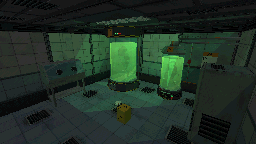
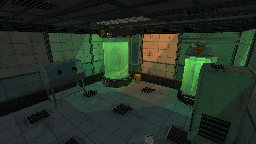
Quarantine: warp portal, ritual circle, creatures on CAM 23

diff --git a/areas.js b/areas.js
@@ -448,7 +448,7 @@
   /* Pre-rendered room images (made from the Kraken Code PSX Sci-Fi
      packs, 256x144), loaded once and reused. */
   const SCENE_IMG = {};
-  const SCENE_V = "2";                 // bump when the rendered images change
+  const SCENE_V = "3";                 // bump when the rendered images change
   function sceneImage(src) {
     if (!SCENE_IMG[src] && typeof Image === "function") {
       const img = new Image();
@@ -492,6 +492,129 @@
       else if (kind === "beacon") { a = Math.max(0, Math.cos(t * speed)) * 0.6; }
       else { a = 0.2 + 0.2 * Math.max(0, Math.sin(t * speed)); }
       glowAt(ctx, x, y, r, "rgba(" + rgb + "," + a.toFixed(3) + ")");
+    };
+  }
+
+  /* ---------- QUARANTINE (CAM 23): the warp incursion ----------
+     Drawn over the rendered room, back to front:
+       portal   a burning warp portal on the back wall
+                (assets/aft_cargo/q_portal.png, 24 frames of 56x56)
+       ritual   a blood circle on the floor, already in perspective
+                (assets/aft_cargo/q_ritual.png, same size as the room)
+       spawns   three warp creatures that crawl out of the portal and
+                prowl the room (assets/aft_cargo/mon_demon.png and
+                mon_blood.png: rows idle, walk, attack, death; 48x28 frames)
+     Creatures live in room coordinates (metres, floor plane) and are
+     projected with the same camera the room was rendered with, so they
+     shrink with distance and sort front to back. Tune SPAWNS, BOUNDS and
+     PORTAL below. */
+  const QCAM = { eye: [2.3, 2.5, 0.7], target: [-1.1, 0.8, -3.8], fov: 66, W: 256, H: 144 };
+  function qProject(x, y, z) {
+    const e = QCAM.eye, t = QCAM.target;
+    let f = [t[0] - e[0], t[1] - e[1], t[2] - e[2]];
+    const fl = Math.hypot(f[0], f[1], f[2]); f = [f[0] / fl, f[1] / fl, f[2] / fl];
+    let r = [f[1] * 0 - f[2] * 1, f[2] * 0 - f[0] * 0, f[0] * 1 - f[1] * 0];          // f x up
+    const rl = Math.hypot(r[0], r[1], r[2]); r = [r[0] / rl, r[1] / rl, r[2] / rl];
+    const u = [r[1] * f[2] - r[2] * f[1], r[2] * f[0] - r[0] * f[2], r[0] * f[1] - r[1] * f[0]];
+    const d = [x - e[0], y - e[1], z - e[2]];
+    const depth = d[0] * f[0] + d[1] * f[1] + d[2] * f[2];
+    const foc = (QCAM.H / 2) / Math.tan(QCAM.fov * Math.PI / 360);
+    return { x: QCAM.W / 2 + foc * (d[0] * r[0] + d[1] * r[1] + d[2] * r[2]) / depth,
+             y: QCAM.H / 2 - foc * (d[0] * u[0] + d[1] * u[1] + d[2] * u[2]) / depth, depth: depth };
+  }
+
+  function quarantineFx() {
+    const C = "assets/aft_cargo/";
+    const portalImg = sceneImage(C + "q_portal.png");
+    const ritualImg = sceneImage(C + "q_ritual.png");
+    const sheets = { demon: sceneImage(C + "mon_demon.png"), blood: sceneImage(C + "mon_blood.png") };
+    const PORTAL = { x: 152, y: 57, w: 30, h: 33, frames: 24, size: 56, fps: 10 };
+    const DOOR = { x: -0.3, z: -4.6 };                        // floor spot under the portal
+    const BOUNDS = { x0: -1.5, x1: 1.3, z0: -4.3, z1: -1.4 };
+    const FW = 48, FH = 28, FEET = 26, CX = 23;               // frame size, feet row, body centre
+    const ROWS = { idle: [0, 6], walk: [1, 8], attack: [2, 7], death: [3, 4] };
+    const HEIGHT = 0.9;                                       // creature height in metres (sets on screen size)
+    const SPAWNS = [
+      { kind: "blood", delay: 0.5 },
+      { kind: "demon", delay: 5 },
+      { kind: "blood", delay: 10 }
+    ].map(function (s, i) {
+      return { kind: s.kind, delay: s.delay, x: DOOR.x, z: DOOR.z, tx: DOOR.x, tz: DOOR.z,
+               state: "wait", until: s.delay, face: 1, seed: i * 17.3, anim: 0 };
+    });
+    let last = 0;
+
+    function pick(m, t) {
+      // new spot on the floor; now and then go and stand in the circle
+      const k = Math.sin(t * 3.1 + m.seed) * 0.5 + 0.5;
+      // each creature has its own spot on the circle's edge, so they gather around it
+      if (k > 0.7) { m.tx = -0.25 + Math.cos(m.seed) * 0.75; m.tz = -2.55 + Math.sin(m.seed) * 0.6; return; }
+      m.tx = BOUNDS.x0 + (BOUNDS.x1 - BOUNDS.x0) * (Math.sin(t * 1.7 + m.seed) * 0.5 + 0.5);
+      m.tz = BOUNDS.z0 + (BOUNDS.z1 - BOUNDS.z0) * (Math.sin(t * 2.3 + m.seed * 1.9) * 0.5 + 0.5);
+    }
+
+    function step(m, t, dt) {
+      if (m.state === "wait") {
+        if (t >= m.until) { m.state = "emerge"; m.until = t + 1.2; }
+        return;
+      }
+      if (m.state === "emerge") { if (t >= m.until) { m.state = "idle"; m.until = t + 0.6; } return; }
+      if (m.state === "idle" || m.state === "attack") {
+        if (t >= m.until) { pick(m, t); m.state = "walk"; }
+        return;
+      }
+      // walking
+      const dx = m.tx - m.x, dz = m.tz - m.z, dist = Math.hypot(dx, dz), sp = 0.55 * dt;
+      if (dist <= sp) {
+        m.x = m.tx; m.z = m.tz;
+        const roll = Math.sin(t * 5.7 + m.seed);
+        m.state = roll > 0.4 ? "attack" : "idle";
+        m.until = t + (m.state === "attack" ? 0.9 : 1 + (roll + 1) * 1.2);
+        return;
+      }
+      m.x += dx / dist * sp; m.z += dz / dist * sp;
+      const a = qProject(m.x, 0, m.z), b = qProject(m.tx, 0, m.tz);
+      if (Math.abs(b.x - a.x) > 0.5) { m.face = b.x > a.x ? 1 : -1; }
+    }
+
+    function drawMon(ctx, m, t) {
+      const img = sheets[m.kind];
+      if (!img.complete || !img.naturalWidth || m.state === "wait") { return; }
+      const foot = qProject(m.x, 0, m.z), head = qProject(m.x, HEIGHT, m.z);
+      const scale = Math.max(0.4, (foot.y - head.y) / 17);    // ~17px of body in each frame
+      const row = ROWS[m.state === "walk" ? "walk" : m.state === "attack" ? "attack" : "idle"];
+      const n = Math.floor(t * (m.state === "walk" ? 10 : 7) + m.seed) % row[1];
+      const w = FW * scale, h = FH * scale;
+      ctx.save();
+      if (m.state === "emerge") { ctx.globalAlpha = Math.max(0, 1 - (m.until - t) / 1.2); }
+      // soft shadow on the floor
+      ctx.fillStyle = "rgba(0,0,0,0.35)";
+      ctx.beginPath(); ctx.ellipse(foot.x, foot.y, 6 * scale, 1.8 * scale, 0, 0, Math.PI * 2); ctx.fill();
+      ctx.translate(Math.round(foot.x), Math.round(foot.y));
+      ctx.scale(m.face, 1);
+      ctx.drawImage(img, n * FW, row[0] * FH, FW, FH, -CX * scale, -FEET * scale, w, h);
+      ctx.restore();
+    }
+
+    return function (ctx, t) {
+      const dt = Math.min(0.1, Math.max(0, t - last)); last = t;
+      // portal on the back wall, with its light spilling into the room
+      glowAt(ctx, PORTAL.x, PORTAL.y + 4, 44, "rgba(255,110,30," + (0.22 + 0.06 * Math.sin(t * 3)).toFixed(3) + ")");
+      if (portalImg.complete && portalImg.naturalWidth) {
+        const n = Math.floor(t * PORTAL.fps) % PORTAL.frames;
+        ctx.drawImage(portalImg, n * PORTAL.size, 0, PORTAL.size, PORTAL.size,
+                      PORTAL.x - PORTAL.w / 2, PORTAL.y - PORTAL.h / 2, PORTAL.w, PORTAL.h);
+      }
+      // blood circle on the floor, pulsing
+      if (ritualImg.complete && ritualImg.naturalWidth) {
+        ctx.save();
+        ctx.globalAlpha = 0.7 + 0.3 * Math.sin(t * 2.2);
+        ctx.drawImage(ritualImg, 0, 0, 256, 144);
+        ctx.restore();
+        glowAt(ctx, 126, 100, 34, "rgba(255,30,20," + (0.12 + 0.08 * Math.sin(t * 2.2)).toFixed(3) + ")");
+      }
+      SPAWNS.forEach(function (m) { step(m, t, dt); });
+      SPAWNS.slice().sort(function (a, b) { return a.z - b.z; }).forEach(function (m) { drawMon(ctx, m, t); });
     };
   }
 
@@ -920,13 +1043,7 @@
     return withCam([
       { room: "HOLD 1", cam: "21", src: C + "c_hold1.png" },
       { room: "HOLD 2", cam: "22", src: C + "cargo_hold.png", fx: pulse(158, 50, 40, "255,150,30", 5, "beacon") },
-      { room: "QUARANTINE", cam: "23", src: C + "c_quarantine.png", fx: function (ctx, t) {
-          // something moves inside the tanks now and then
-          const a = Math.max(0, Math.sin(t * 0.7)) * Math.max(0, Math.sin(t * 2.3));
-          ctx.fillStyle = "rgba(0,20,8," + (0.55 * a).toFixed(3) + ")";
-          ctx.fillRect(119 + Math.round(Math.sin(t) * 2), 52, 8, 18);
-          ctx.fillRect(168, 60 + Math.round(Math.sin(t * 1.3) * 2), 6, 12);
-          glowAt(ctx, 124, 62, 30, "rgba(80,255,120," + (0.12 + 0.06 * Math.sin(t * 2)).toFixed(3) + ")"); } },
+      { room: "QUARANTINE", cam: "23", src: C + "c_quarantine.png", fx: quarantineFx() },
       { room: "MANIFEST OFFICE", cam: "24", src: C + "c_manifest.png", fx: pulse(124, 70, 8, "120,255,160", 4) },
       { room: "CARGO LIFT", cam: "25", src: C + "c_lift.png", fx: pulse(132, 35, 40, "255,150,30", 5, "beacon") },
       { room: "SERVITOR BAY", cam: "26", note: "SERVITOR 3 KAPPA: NO RESPONSE" },

diff --git a/index.html b/index.html
@@ -20,7 +20,7 @@
   - resume.html : full resume PDF viewer
   - legacy-xp/  : backup of the previous Windows XP-style site
 
-  CACHE NOTE: the ?v=80 on the CSS/JS links below forces browsers to
+  CACHE NOTE: the ?v=81 on the CSS/JS links below forces browsers to
   load fresh copies. Bump the number whenever you change those files.
 -->
 <html lang="en">
@@ -32,7 +32,7 @@
   <link rel="icon" href="images/robot-icon.svg" type="image/svg+xml" />
   <link rel="icon" href="images/robot-icon.png" type="image/png" sizes="64x64" />
   <link rel="apple-touch-icon" href="images/apple-touch-icon.png" />
-  <link rel="stylesheet" href="style.css?v=80" />
+  <link rel="stylesheet" href="style.css?v=81" />
 </head>
 <body>
   <div id="crt">
@@ -90,15 +90,15 @@
     </p>
   </noscript>
 
-  <script src="content.js?v=80"></script>
-  <script src="wireframe.js?v=80"></script>
-  <script src="ship.js?v=80"></script>
-  <script src="areas.js?v=80"></script>
-  <script src="repair.js?v=80"></script>
-  <script src="cube.js?v=80"></script>
-  <script src="hangman.js?v=80"></script>
-  <script src="github.js?v=80"></script>
-  <script src="script.js?v=80"></script>
-  <script src="eggs.js?v=80"></script>
+  <script src="content.js?v=81"></script>
+  <script src="wireframe.js?v=81"></script>
+  <script src="ship.js?v=81"></script>
+  <script src="areas.js?v=81"></script>
+  <script src="repair.js?v=81"></script>
+  <script src="cube.js?v=81"></script>
+  <script src="hangman.js?v=81"></script>
+  <script src="github.js?v=81"></script>
+  <script src="script.js?v=81"></script>
+  <script src="eggs.js?v=81"></script>
 </body>
 </html>
